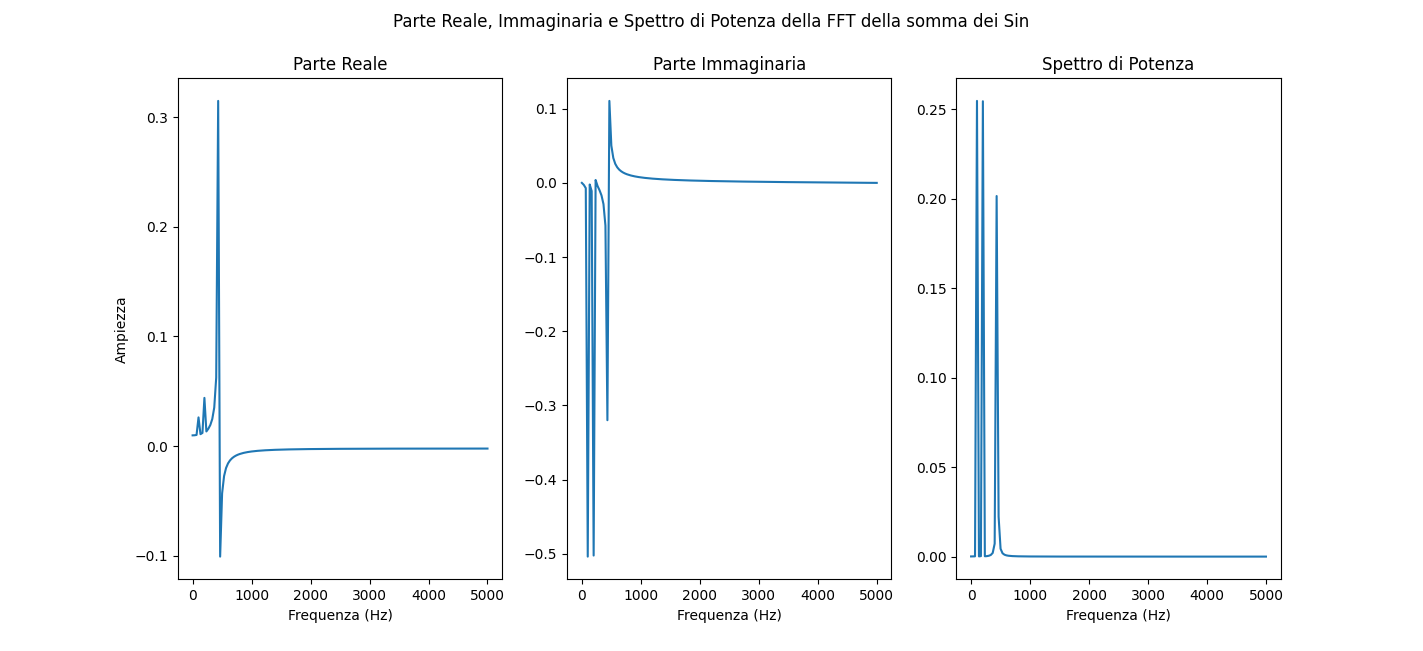
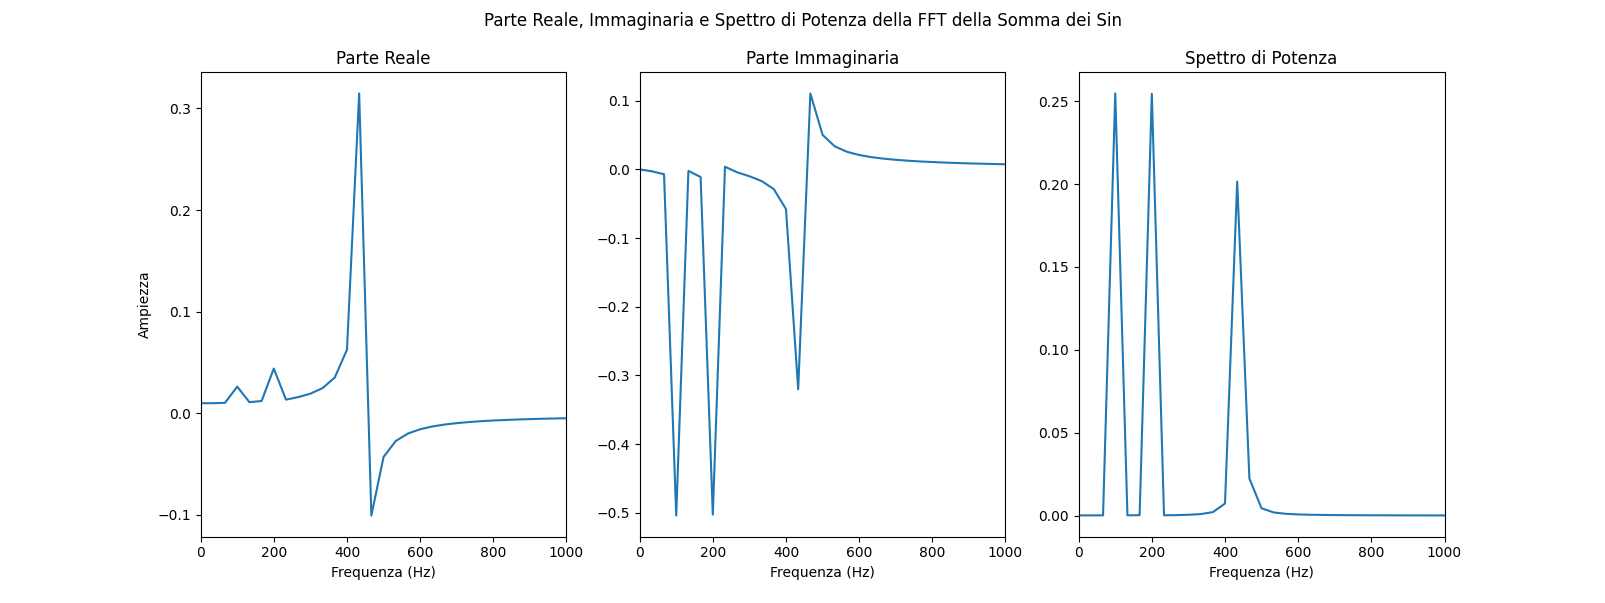
Ristretti grafici su asse x

diff --git a/Trasformata e Antitrasformata/Studi in frequenza.py b/Trasformata e Antitrasformata/Studi in frequenza.py
@@ -66,19 +66,22 @@ fig, ax = plt.subplots(nrows=3, ncols=3)
 # ax[1].set_xlabel("Frequenza (Hz)")
 # ax[2].set_xlabel("Frequenza (Hz)")
 # ax[0].set_ylabel("Ampiezza")
+# ax[0].set_xlim(0, 1000)
+# ax[1].set_xlim(0, 1000)
+# ax[2].set_xlim(0, 1000)
 
 
 
 # Sin
-# ax[0, 0].plot(freq, sin0_fft.real)
-# ax[0, 1].plot(freq, sin1_fft.real)
-# ax[0, 2].plot(freq, sin2_fft.real)
-# ax[1, 0].plot(freq, sin0_fft.imag)
-# ax[1, 1].plot(freq, sin1_fft.imag)
-# ax[1, 2].plot(freq, sin2_fft.imag)
-# ax[2, 0].plot(freq, sin0_p)
-# ax[2, 1].plot(freq, sin1_p)
-# ax[2, 2].plot(freq, sin2_p)
+ax[0, 0].plot(freq, sin0_fft.real)
+ax[0, 1].plot(freq, sin1_fft.real)
+ax[0, 2].plot(freq, sin2_fft.real)
+ax[1, 0].plot(freq, sin0_fft.imag)
+ax[1, 1].plot(freq, sin1_fft.imag)
+ax[1, 2].plot(freq, sin2_fft.imag)
+ax[2, 0].plot(freq, sin0_p)
+ax[2, 1].plot(freq, sin1_p)
+ax[2, 2].plot(freq, sin2_p)
 
 # Sawtooth
 # ax[0, 0].plot(freq, st0_fft.real)
@@ -91,29 +94,40 @@ fig, ax = plt.subplots(nrows=3, ncols=3)
 # ax[2, 1].plot(freq, st1_p)
 # ax[2, 2].plot(freq, st2_p)
 
-# Square
-ax[0, 0].plot(freq, sq0_fft.real)
-ax[0, 1].plot(freq, sq1_fft.real)
-ax[0, 2].plot(freq, sq2_fft.real)
-ax[1, 0].plot(freq, sq0_fft.imag)
-ax[1, 1].plot(freq, sq1_fft.imag)
-ax[1, 2].plot(freq, sq2_fft.imag)
-ax[2, 0].plot(freq, sq0_p)
-ax[2, 1].plot(freq, sq1_p)
-ax[2, 2].plot(freq, sq2_p)
+# # Square
+# ax[0, 0].plot(freq, sq0_fft.real)
+# ax[0, 1].plot(freq, sq1_fft.real)
+# ax[0, 2].plot(freq, sq2_fft.real)
+# ax[1, 0].plot(freq, sq0_fft.imag)
+# ax[1, 1].plot(freq, sq1_fft.imag)
+# ax[1, 2].plot(freq, sq2_fft.imag)
+# ax[2, 0].plot(freq, sq0_p)
+# ax[2, 1].plot(freq, sq1_p)
+# ax[2, 2].plot(freq, sq2_p)
 
-fig.suptitle("Parte Reale, Immaginaria e Spettro di Potenza della FFT dell'Onda Quadra")
+fig.suptitle("Parte Reale, Immaginaria e Spettro di Potenza della FFT del Sin")
+# fig.suptitle("Parte Reale, Immaginaria e Spettro di Potenza della FFT dell'Onda Quadra")
+# fig.suptitle("Parte Reale, Immaginaria e Spettro di Potenza della FFT dell'Onda Triangolare")
+# fig.suptitle("Parte Reale, Immaginaria e Spettro di Potenza della FFT della Somma dei Sin")
 
 ax[0, 0].set_title('100hz')
 ax[0, 1].set_title('200hz')
 ax[0, 2].set_title('440hz')
-
 ax[2, 0].set_xlabel("Frequenza (Hz)")
 ax[2, 1].set_xlabel("Frequenza (Hz)")
 ax[2, 2].set_xlabel("Frequenza (Hz)")
-
 ax[0, 0].set_ylabel("Ampiezza")
 ax[1, 0].set_ylabel("Ampiezza")
 ax[2, 0].set_ylabel("Ampiezza")
+
+ax[0, 0].set_xlim(-100, 2000)
+ax[0, 1].set_xlim(-100, 2000)
+ax[0, 2].set_xlim(-100, 2000)
+ax[1, 0].set_xlim(-100, 2000)
+ax[1, 1].set_xlim(-100, 2000)
+ax[1, 2].set_xlim(-100, 2000)
+ax[2, 0].set_xlim(-100, 2000)
+ax[2, 1].set_xlim(-100, 2000)
+ax[2, 2].set_xlim(-100, 2000)
 
 plt.show()

diff --git a/Trasformata e Antitrasformata/seconda parte.py b/Trasformata e Antitrasformata/seconda parte.py
@@ -43,4 +43,6 @@ ax[0, 0].set_ylabel("Valore")
 ax[1, 0].set_ylabel("Valore")
 ax[2, 0].set_ylabel("Valore")
 
+
+
 plt.show()
